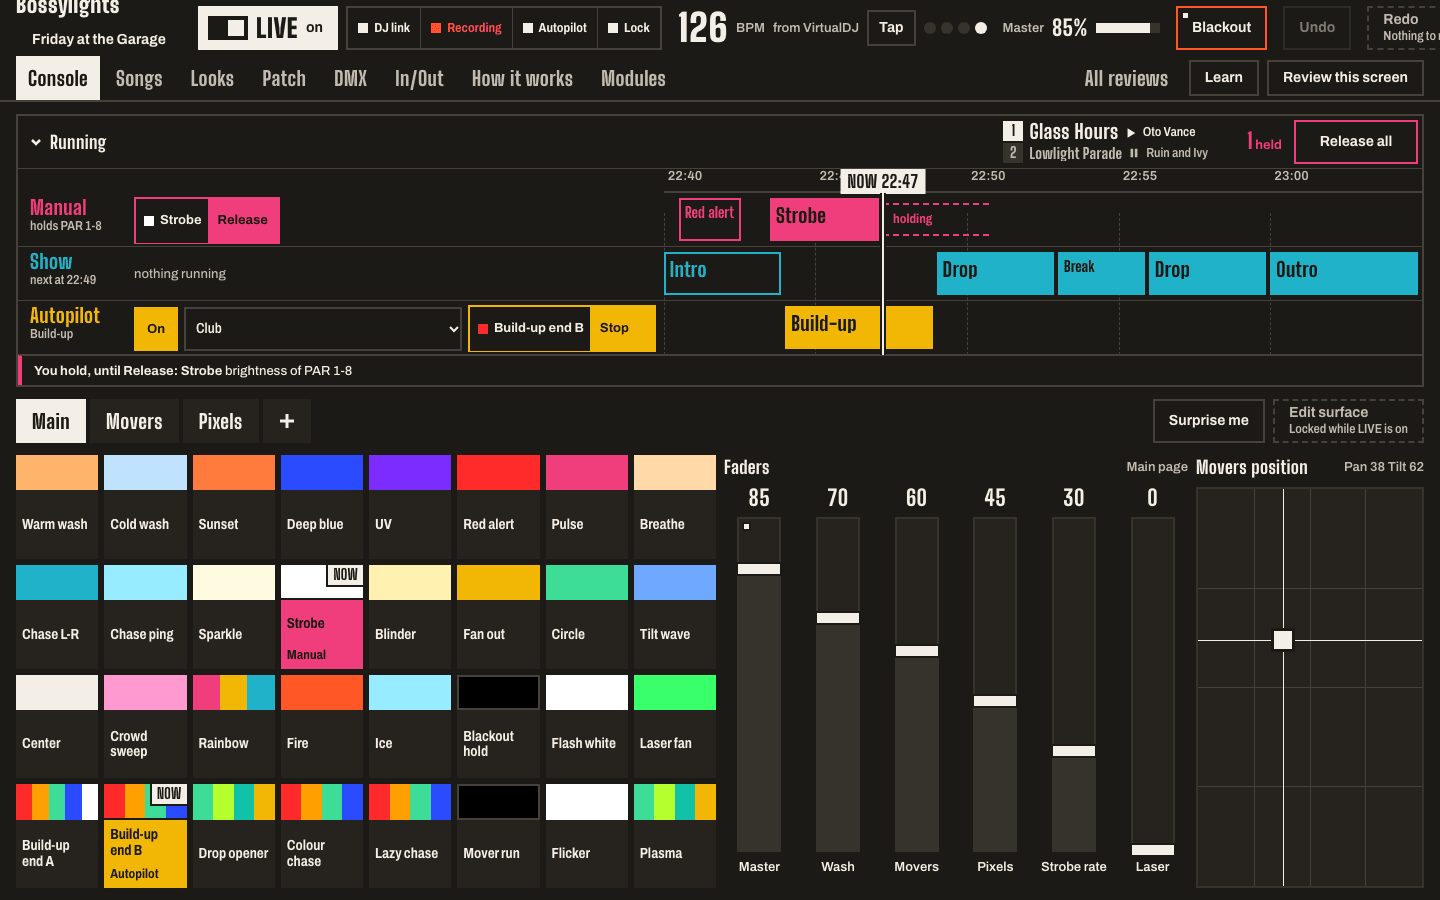
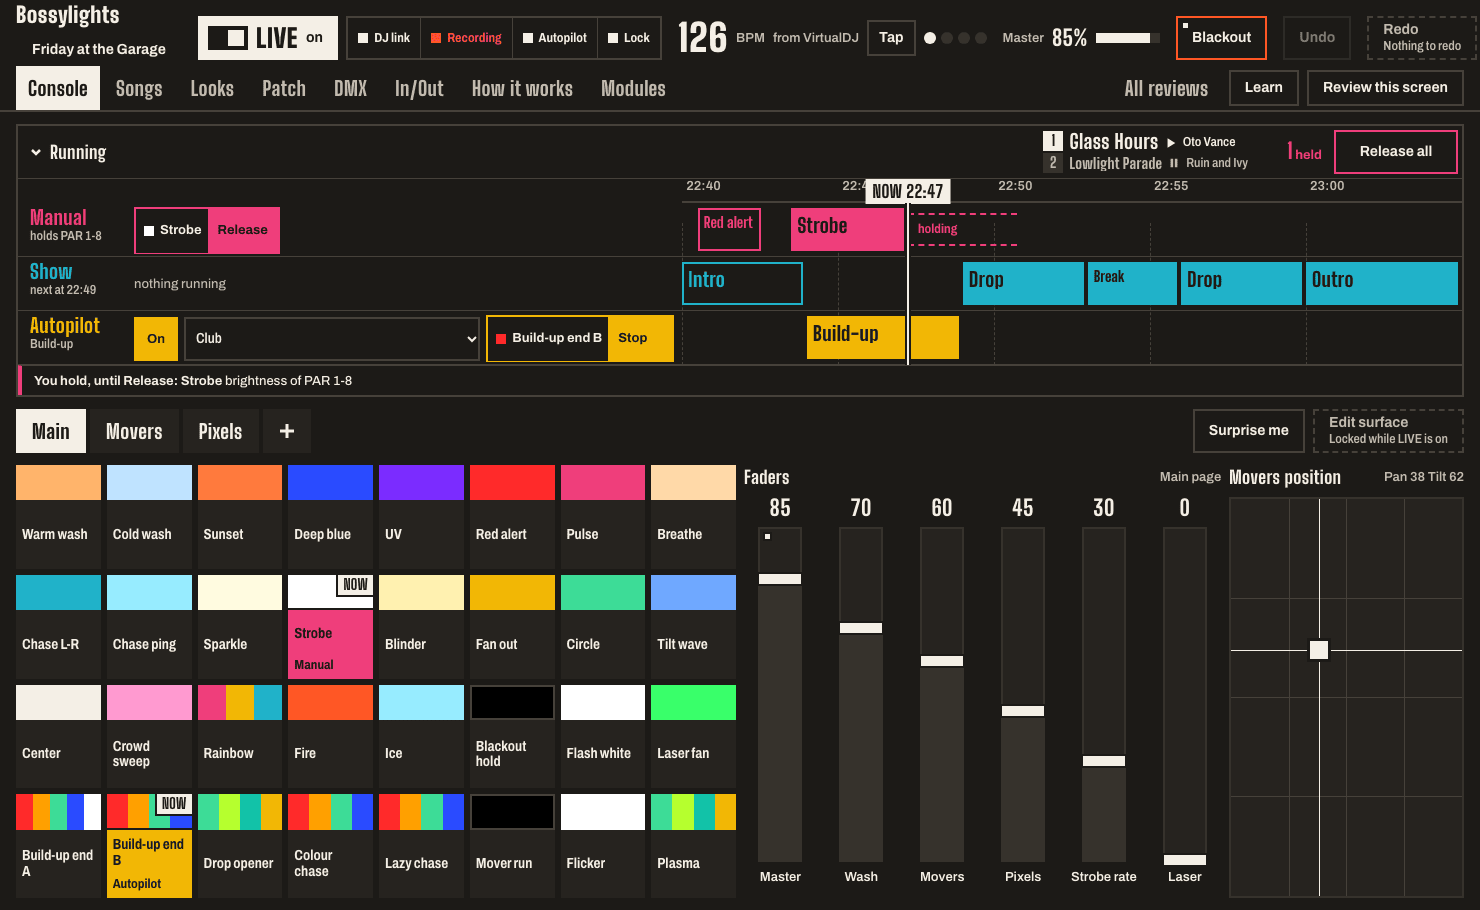
docs: the mockup screenshots show the whole top bar, taken from the committed mockups at 1480 wide; engine.md: every output starts NotFound, an adapter not there yet is looked for, not refused (#116)

diff --git a/docs/engine.md b/docs/engine.md
@@ -60,7 +60,7 @@ The list is `ORIGINS` in `crates/engine-server/src/lib.rs`. No pairing or token 
 | `ReleaseChannel` (universe, address) | lets it go back to zero |
 | `ReleaseAll` | lets every held channel go |
 | `Blackout` (on) | every channel goes out at zero while on; the held values stay |
-| `SetOutput` (output 1 to 16, kind, universes, rate) | adds or replaces an output. Kind `{"Ddp": {"address": "ip:port", "color": "Rgb" or "Rgbw"}}` or `{"DmxUsbPro": {"adapter": 1}}` (the first ENTTEC DMX USB Pro by USB identity, in the order of their USB serial numbers, when the output is set; from then on the output finds that same adapter by its serial, so a lost adapter never comes back as another). Universes `{"first": 1, "count": 3}`, sent as one stream of channels. Rate `"30"`, `"44"`, `"60"` or `null`: 60 for DDP, 44 for the DMX USB Pro |
+| `SetOutput` (output 1 to 16, kind, universes, rate) | adds or replaces an output. Kind `{"Ddp": {"address": "ip:port", "color": "Rgb" or "Rgbw"}}` or `{"DmxUsbPro": {"adapter": 1}}` (the first ENTTEC DMX USB Pro by USB identity, in the order of their USB serial numbers, when the output first finds one; an adapter not there yet is no error, the output is NotFound until it is plugged in; from then on the output finds that same adapter by its serial, so a lost adapter never comes back as another). Universes `{"first": 1, "count": 3}`, sent as one stream of channels. Rate `"30"`, `"44"`, `"60"` or `null`: 60 for DDP, 44 for the DMX USB Pro |
 | `RemoveOutput` (output) | removes it |
 
 ```json
@@ -80,14 +80,17 @@ The list is `ORIGINS` in `crates/engine-server/src/lib.rs`. No pairing or token 
 
 ```mermaid
 stateDiagram-v2
-  [*] --> Connecting: SetOutput
+  direction LR
+  [*] --> NotFound: SetOutput
+  NotFound --> Connecting: accepted, the device appeared
   Connecting --> Running: accepted
-  Running --> Reconnecting: failed
   Connecting --> Reconnecting: failed
+  Running --> Reconnecting: failed, the device is lost
   Reconnecting --> Running: accepted
   Reconnecting --> NotFound: 100 failures in a row
-  NotFound --> Connecting: accepted
 ```
+
+"Accepted" is the device's word: a DMX USB Pro accepts only once its adapter is found. DDP gets no answer from the device, so for it accepted, and Running, mean the frames were sent.
 
 Counters: `accepted`, `dropped` (the socket or the link was busy: the frame is dropped, never waited for), `failed`, `off_beat` (intervals more than 2 ms from the rate). With no output the engine still wakes 44 times a second and publishes its state.
 
@@ -99,6 +102,7 @@ The output thread never calls the serial driver: a vanishing device holds the dr
 sequenceDiagram
   participant O as output thread
   participant P as port thread (one per adapter)
+  Note over P: not there when the output is set: "lost" from the start, frames fail until found
   O->>P: the message (one-slot wait-free queue), wake
   P->>P: write it, then wait until the link is free
   Note over P: unplugged: write fails
@@ -113,7 +117,7 @@ sequenceDiagram
 
 | Who looks | How often | Cost |
 |---|---|---|
-| the port thread of each DMX USB Pro output | writes each message; while the port is lost, lists the USB serial ports every 500 ms | asleep between messages. One listing is an IOKit or sysfs query of a few ms, never on the output thread |
+| the port thread of each DMX USB Pro output | writes each message; while the adapter is not there yet or lost, lists the USB serial ports every 500 ms | asleep between messages. One listing is an IOKit or sysfs query of a few ms, never on the output thread |
 
 ## Checks with hands or hardware
 
